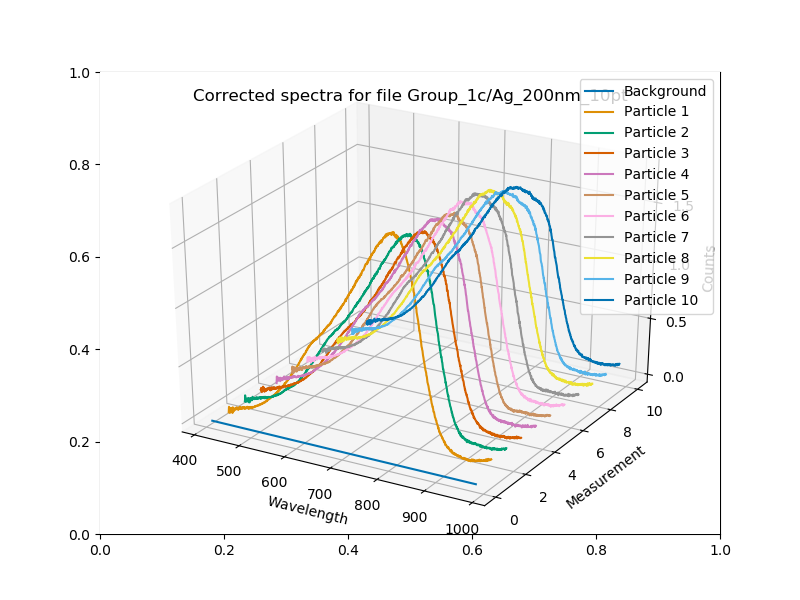
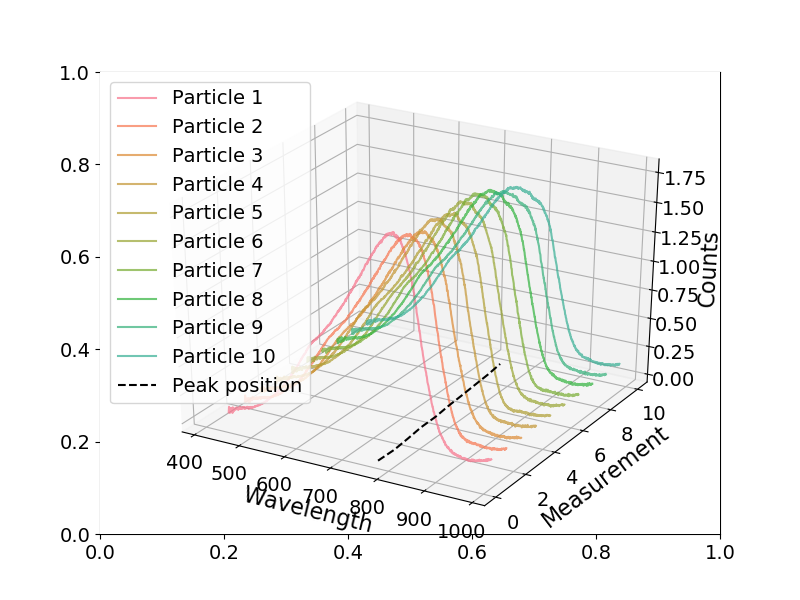
Generate first four figures for report

diff --git a/ag_au_pd_comparison.py b/ag_au_pd_comparison.py
@@ -1,0 +1,108 @@
+import matplotlib as mpl
+import matplotlib.pyplot as plt
+from mpl_toolkits.mplot3d import Axes3D
+import numpy as np
+from data_loader import load_file
+from fit_function import lorentzian_fit
+import seaborn as sns
+sns.set_palette(sns.color_palette("husl", 20))
+
+# Set plot params
+plt.rc('font', size=14)          # controls default text sizes
+plt.rc('axes', titlesize=14)     # fontsize of the axes title
+plt.rc('axes', labelsize=16)    # fontsize of the x and y labels
+plt.rc('xtick', labelsize=14)    # fontsize of the tick labels
+plt.rc('ytick', labelsize=14)    # fontsize of the tick labels
+plt.rc('legend', fontsize=14)    # legend fontsize
+
+# Specify files to load
+ag_file = 'Ag_200nm_10pt'
+au_file = 'Au_200nm_10pt'
+pd_file = 'Pd_200nm_10pt'
+lamp_file = 'CRS_700nm'
+
+# Load lamp spectra
+lamp_data, _ = load_file(lamp_file)
+lamp_spectra = lamp_data["spectra_0"]
+
+# Define dict
+spectra_dict = {
+    "Ag": {
+        "file": ag_file,
+        "wvl": [],
+        "avg_spectra": np.zeros((1024)),
+        "peak_pos": 0,
+        "color": "slategray"
+    },
+    "Au": {
+        "file": au_file,
+        "wvl": [],
+        "avg_spectra": np.zeros((1024)),
+        "peak_pos": 0,
+        "color": "gold"
+    },
+    "Pd": {
+        "file": pd_file,
+        "wvl": [],
+        "avg_spectra": np.zeros((1024)),
+        "peak_pos": 0,
+        "color": "dimgray"
+    }
+}
+
+# Define figure
+fig, ax = plt.subplots(figsize=(10,6))
+ax = fig.gca(projection='3d')
+
+for sample in spectra_dict:
+    # Load data from file
+    sample_data, _ = load_file(spectra_dict[sample]["file"])
+    # Pick out wavelength
+    wvl = sample_data["lambda"]
+    # Pick out background spectrum
+    sample_bground = sample_data["spectra_0"]
+    # Calculate average spectra
+    measurements = 0
+    avg_spectra = spectra_dict[sample]["avg_spectra"]
+    for measurement in sample_data:
+        if not (measurement == "spectra_0") and not (measurement=="lambda"):
+            # Skip background measurement
+            avg_spectra += sample_data[measurement]
+            measurements += 1
+    print(f'Number of measurements: {measurements} for sample: {sample}')
+    avg_spectra /= measurements
+    # Renormalize, by removing background and then dividing by lamp_spectra
+    avg_spectra = (avg_spectra-sample_bground)/lamp_spectra
+    # calc peak_pos and fwhm
+    peak_pos, fwhm = lorentzian_fit(wvl, avg_spectra, [700, 850], False)
+    print(peak_pos)
+    # Save results
+    spectra_dict[sample]["wvl"] = wvl
+    spectra_dict[sample]["avg_spectra"] = avg_spectra
+    spectra_dict[sample]["peak_pos"] = peak_pos
+
+
+# Iterate through and plot all spectras. Also append all peak pos together to a vector and plot that
+peak_vector = []
+for i, sample in enumerate(spectra_dict):
+    wvl = spectra_dict[sample]["wvl"]
+    delta_y = np.ones(len(wvl))*(i)
+    avg_spectra = spectra_dict[sample]["avg_spectra"]
+    peak_vector.append(spectra_dict[sample]["peak_pos"])
+    ax.plot(wvl, delta_y, avg_spectra, color=spectra_dict[sample]["color"], label=sample, linewidth=2)
+
+print(peak_vector)
+
+ax.plot(peak_vector, list(range(len(spectra_dict))), np.zeros(len(spectra_dict)), 'k--', label="Peak position")
+
+ax.tick_params(axis='both', which='major', pad=0)
+ax.set_xlabel("Wavelength")
+ax.set_ylabel("Measurement")
+ax.set_zlabel("Counts")
+plt.grid()
+plt.legend(loc="upper left")
+plt.tight_layout()
+plt.savefig("ag_au_pd_comparison.png")
+
+plt.show()
+

diff --git a/plot_measured_spectra.py b/plot_measured_spectra.py
@@ -3,68 +3,63 @@ import matplotlib.pyplot as plt
 import matplotlib as mpl
 from mpl_toolkits.mplot3d import Axes3D
 from cycler import cycler
-from load_data import load_file, read_gas_file
+from data_loader import load_file, read_gas_file
+from fit_function import lorentzian_fit
 import seaborn as sns
 sns.set_palette(sns.color_palette("husl", 20))
 
 
+# Set plot params
+plt.rc('font', size=14)          # controls default text sizes
+plt.rc('axes', titlesize=14)     # fontsize of the axes title
+plt.rc('axes', labelsize=16)    # fontsize of the x and y labels
+plt.rc('xtick', labelsize=14)    # fontsize of the tick labels
+plt.rc('ytick', labelsize=14)    # fontsize of the tick labels
+plt.rc('legend', fontsize=14)    # legend fontsize
+
 # Load the data
-filename = 'Group_1c/Ag_diskrod_200nm_15pt'
-lamp_spectrum_file = 'Group_1c/CRS_700nm'
+filename = 'Ag_diskrod_200nm_15pt'
+lamp_spectrum_file = 'CRS_700nm'
 background_spectra = 15
 
 # Size of sensor is 1024x256
 data, nbr_particles = load_file(filename)
 lamp_data, s = load_file(lamp_spectrum_file)
 
-
 # Plot the data
-fig, ax = plt.subplots(figsize=(8,6))
+fig, ax = plt.subplots(figsize=(10,6))
 ax = fig.gca(projection='3d')
 wvl = data["lambda"]
 background = data["spectra_" + str(background_spectra)]
 lamp_spectra = lamp_data["spectra_0"]
 
+#peak_guesses = [0, 0, 750, 700, 650, 600, 550, 500, 450, 400, 300, 350, 250]
+peak_positions = []
 for i in range(0,nbr_particles):
     spectra = data[f'spectra_{i}']
-    if i == background_spectra:
-        c = 'k'
-        a = 1
-        l = "Background"
-    elif i == 1 or i==nbr_particles-1:
-        # First and last samples
-        c = 'r'  # color
-        a = 1  # alpha
-        l = f'Particle {i}'  # Label
-    else: 
-        # All other samples
-        c = 'b'
-        a = 1
-        l = f'Particle {i}'
-    # Don't plot background
-    corrected_spectra = (spectra - background)/lamp_spectra
-    norm_spectra = spectra/spectra.max()
-    delta_y = np.ones(len(wvl))*(i)
-    ax.plot(wvl, delta_y, corrected_spectra, label=l, alpha=a)
+    if not i == background_spectra:
+        # Don't plot background
+        corrected_spectra = (spectra - background)/lamp_spectra
+        #norm_spectra = spectra/spectra.max()
+
+        peak_pos, fwhm = lorentzian_fit(wvl, corrected_spectra, [700, 850], False)
+        peak_positions.append(peak_pos)
+        delta_y = np.ones(len(wvl))*(i)
+        ax.plot(wvl, delta_y, corrected_spectra, label=f'Particle {i+1}', alpha=0.7)
+
+# Plot peak position as well
+ax.plot(peak_positions, list(range(nbr_particles-1)), np.zeros(nbr_particles-1), 'k--', label="Peak position")
 
 #ax.set_title(f'Corrected spectra for file {filename}')
+ax.tick_params(axis='both', which='major', pad=0)
 ax.set_xlabel("Wavelength")
 ax.set_ylabel("Measurement")
 ax.set_zlabel("Counts")
 plt.grid()
-plt.legend()
-
-# Set font size for figure
-plt.rc('font', size=14)          # controls default text sizes
-plt.rc('axes', titlesize=14)     # fontsize of the axes title
-plt.rc('axes', labelsize=16)    # fontsize of the x and y labels
-plt.rc('xtick', labelsize=20)    # fontsize of the tick labels
-plt.rc('ytick', labelsize=14)    # fontsize of the tick labels
-plt.rc('legend', fontsize=14)    # legend fontsize
-
+plt.legend(loc="upper left")
+plt.tight_layout()
 plt.savefig(f'{filename}.png')
 plt.show()
-
 
 # Centroid = center of mass wavelength
 # Normalize spectra for a better fit - best around 0 to 1

diff --git a/fit_function.py b/fit_function.py
@@ -1,6 +1,6 @@
 import numpy as np
 import matplotlib.pyplot as plt
-from load_data import load_file
+from data_loader import load_file
 import pandas as pd
 # Standard libraries
 import os
@@ -24,7 +24,7 @@ def poly(x, intercept, coef):
     return y
 
 
-def lorentzian_fit(wavelength, data, plot=True):
+def lorentzian_fit(wavelength, data, peak_range, plot=True):
     # Fit a polynomial
     order = 20
     wl = np.array(wavelength)
@@ -33,8 +33,8 @@ def lorentzian_fit(wavelength, data, plot=True):
     # Split into three partitions
     idx_min = wl > 550
     idx_max = wl < 775
-    idx_1 = (wl <= 630)
-    idx_3 = (wl >= 700)
+    idx_1 = (wl <= peak_range[0])
+    idx_3 = (wl >= peak_range[1])
     idx_2 = idx_1 == idx_3
     idx_1 = idx_1 == idx_min
     idx_3 = idx_3 == idx_max
@@ -88,7 +88,7 @@ def lorentzian_fit(wavelength, data, plot=True):
         plt.show()
     
     # Find maxmimum by optimizing the lin_reg.predict
-    x0 = minimize_scalar(lambda x, i, c: -poly(x, i, c), method='bounded', args=(intercept_2, coef_2), bounds=(630,700))
+    x0 = minimize_scalar(lambda x, i, c: -poly(x, i, c), method='bounded', args=(intercept_2, coef_2), bounds=(peak_range[0],peak_range[1]))
     peak_x = x0.x
     peak_y = poly(peak_x, intercept_2, coef_2)
     

diff --git a/data_loader.py b/data_loader.py
@@ -4,7 +4,7 @@ import pandas as pd
 
 def load_file(filename):
     d = {}
-    with open(filename + ".asc") as f:
+    with open("Group_1c/" + filename + ".asc") as f:
         for idx, line in enumerate(f):
             val = line.split()
             # If first line, define dict arrays
